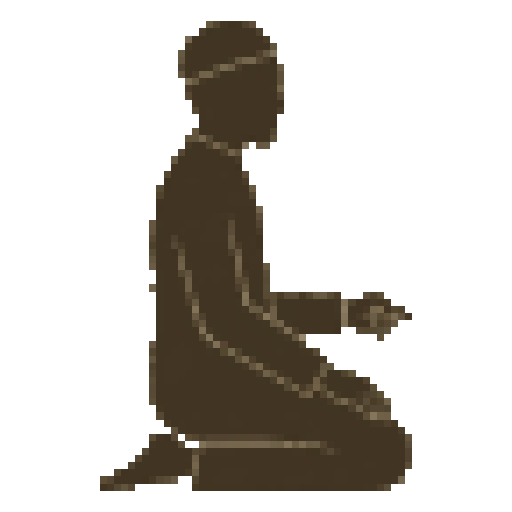
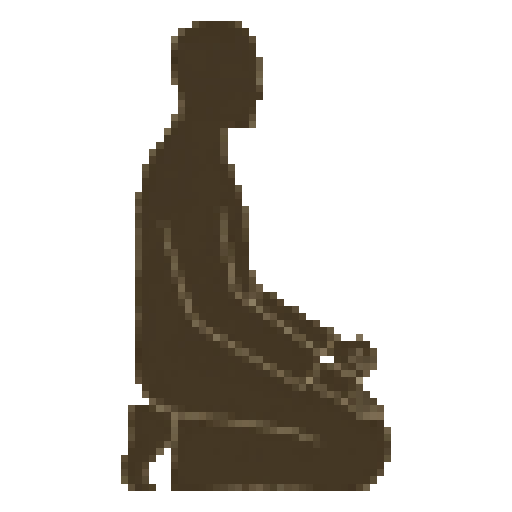
feat(art): le tashahhud a deux dessins, et l'icône est dessinée
La position assise finale existe en deux images : poing fermé, et poing avec
l'index tendu. Le geste de l'index n'appartient pas à toute l'étape — il arrive
sur la shahada — et une seule illustration forçait à trancher partout ce qui ne
se tranche qu'à un moment. Le texte français dit maintenant le geste au lieu de
le supposer.

L'icône n'est plus assemblée en polygones. Trois idées empilées dans un carré
qu'on regarde à 20 mm — étoile sable, socle doré extrudé, silhouette posée
dessus — ne faisaient qu'une tache : elle est remplacée par une étoile khatam
en or, la prosternation dedans, rien d'autre. `make-appicon.py` ne garde que le
prompt qui l'a produite et un `--install` qui force 1024×1024 sans alpha, iOS
refusant une icône transparente. L'étoile est à huit branches — à écrire
« star » tout court, le modèle rend un hexagramme.

Même contrainte de pudeur que partout : aucun trait de visage.

Claude-Session: https://claude.ai/code/session_0131jC1mVapcXB6WxoQg6Qw7

Changed region(s): [[0.1875, 0.0312, 0.8125, 0.9688], [0.4375, 0.9375, 0.5938, 0.9688]]

diff --git a/tools/make-appicon.py b/tools/make-appicon.py
@@ -1,100 +1,76 @@
 #!/usr/bin/env python3
-"""Fabrique l'icône d'app (1024×1024) à partir d'une des illustrations de position.
+"""Imprime le corps JSON de l'icône d'app, pour NanoBanana.
 
-L'icône reprend la DA de l'app : crème, sable, or, encre brune, contour épais et
-face inférieure extrudée (le langage de formes de 5min/Design/Plate.swift). La
-figure est la silhouette de `pos_sujud.png` — la posture la plus reconnaissable
-de la salat, même à 60 pt.
+    python3 tools/make-appicon.py > body.json
+    curl -s --max-time 290 -X POST localhost:4747/generate \
+         -H 'Content-Type: application/json' -d @body.json
+    python3 tools/make-appicon.py --install /tmp/AppIcon.png
 
-    python3 tools/make-appicon.py [--position sujud]
+L'icône était fabriquée ici même, en polygones : étoile khatam sable, socle doré
+extrudé, silhouette de `pos_sujud.png` posée dessus. Elle empilait trois idées
+dans un carré qui se regarde à 20 mm — Sharik l'a remplacée par un dessin, une
+seule forme : l'étoile en or, la prosternation dedans.
 
-Sortie : Salat/Assets.xcassets/AppIcon.appiconset/AppIcon.png
+Le prompt reste ici parce que c'est lui, désormais, la source de l'icône. Deux
+clauses ne sont pas décoratives : la tête sans aucun trait (pudeur, comme pour
+les positions) et l'étoile **à huit branches** — un hexagramme est le symbole du
+judaïsme et n'a rien à faire sur une app de salat, et le modèle y glisse tout
+seul si on écrit juste « star ».
+
+`--install` fait le service après-vente d'un rendu : il efface l'étincelle que
+le générateur tamponne dans un coin (une icône n'a pas de marge à recadrer, il
+faut la repeindre), force 1024×1024 sans alpha — iOS refuse une icône
+transparente — et l'écrit dans l'`AppIcon.appiconset`.
 """
 from __future__ import annotations
 
 import argparse
-import math
+import json
 from pathlib import Path
 
-from PIL import Image, ImageDraw
-
 ROOT = Path(__file__).resolve().parent.parent
-RES = ROOT / "SalatKit" / "Resources"
 OUT = ROOT / "Salat" / "Assets.xcassets" / "AppIcon.appiconset" / "AppIcon.png"
 
+PROMPT = """ONE single square image, 1:1, FULL BLEED: the flat background colour touches all four edges. This is an iOS APP ICON, so: NO rounded corners, NO frame, NO border, NO drop shadow, NO transparency, NO device mockup, NO text, NO letter, NO word, NO number, NO signature, NO watermark, NO sparkle in the corner.
+
+Subject: a single warm gold eight-pointed Islamic khatam star, centred and large, on a plain cream field, with a small brown-ink silhouette of a man prostrating in prayer (sujud, side view, forehead to the ground) resting inside the middle of the star. Only two elements: the gold star, the ink figure.
+
+ART DIRECTION — the app is a calm, printed-book-looking prayer app:
+- Palette, and nothing else: cream #FBF6EC, sand #EFE3CC, warm gold #C1962C, brown ink #2E2A22. No pure black, no white, no saturated colour, no blue, no red, no green, no purple.
+- Flat vector, thick hand-cut ink outlines like a linocut stamp. No gradient, no glow, no bevel, no gloss, no 3D, no photo, no texture, no shading, no hatching.
+- Big simple masses, readable when the icon is 20 mm wide on a phone home screen. Two or three shapes maximum. Generous empty margin all around, nothing touching the edges.
+- If a human figure appears, THE HEAD IS COMPLETELY BLANK — no eyes, no nose, no mouth, no ear, no hair, no face contour, one uninterrupted mass of ink. Non-negotiable, religious modesty.
+- Any star must be an EIGHT-POINTED ISLAMIC KHATAM star (two overlaid squares). NEVER a six-pointed star, never a hexagram, never a Star of David, never a crescent-and-star flag emblem.
+"""
+
 SIZE = 1024
-CREAM = (251, 246, 236, 255)
-SAND = (239, 227, 204, 255)
-GOLD = (193, 150, 44, 255)
-GOLD_DEEP = (154, 118, 30, 255)
-INK = (46, 42, 34, 255)
-
-# Rendu 4× puis réduit : les diagonales du khatam et le contour du socle sont
-# tracés en polygones, ils crénellent sans supersampling.
-SS = 4
 
 
-def khatam(cx: float, cy: float, r: float) -> list[tuple[float, float]]:
-    """Étoile à huit branches — le motif du fond, pas un hexagramme."""
-    inner = r * 0.62
-    pts = []
-    for i in range(16):
-        a = math.pi / 8 * i - math.pi / 2
-        rad = r if i % 2 == 0 else inner
-        pts.append((cx + rad * math.cos(a), cy + rad * math.sin(a)))
-    return pts
+def install(path: Path) -> None:
+    from PIL import Image
 
-
-def silhouette(name: str, height: int) -> Image.Image:
-    """Charge une illustration et l'aplatit en encre brune, pixels conservés."""
-    src = Image.open(RES / f"pos_{name}.png").convert("RGBA")
-    src = src.crop(src.getbbox())
-    w = round(src.width * height / src.height)
-    src = src.resize((w, height), Image.NEAREST)  # NEAREST : la pixellisation est voulue
-    flat = Image.new("RGBA", src.size, INK)
-    flat.putalpha(src.getchannel("A"))
-    return flat
-
-
-def build(position: str) -> Image.Image:
-    s = SIZE * SS
-    img = Image.new("RGBA", (s, s), CREAM)
-    d = ImageDraw.Draw(img)
-
-    # Le motif du fond : une grande étoile sable, plus deux petites en écho.
-    # Les petites restent à 17 % du bord : plus près, le masque arrondi d'iOS
-    # les rogne.
-    d.polygon(khatam(s * 0.5, s * 0.42, s * 0.36), fill=SAND)
-    for cx, cy, r in ((0.17, 0.17, 0.07), (0.83, 0.17, 0.07)):
-        d.polygon(khatam(s * cx, s * cy, s * r), fill=SAND)
-
-    # Le socle : plaque dorée, contour d'encre, face inférieure extrudée.
-    # La face du dessous se trace en premier ; la plaque du dessus recouvre
-    # ensuite son arête haute, sinon un trait d'encre barre l'or.
-    stroke = round(s * 0.011)
-    x0, x1 = s * 0.11, s * 0.89
-    top, bot = s * 0.735, s * 0.825
-    depth = s * 0.032
-    rad = s * 0.028
-    d.rounded_rectangle(
-        [x0, top + depth, x1, bot + depth], rad, fill=GOLD_DEEP, outline=INK, width=stroke
-    )
-    d.rounded_rectangle([x0, top, x1, bot], rad, fill=GOLD, outline=INK, width=stroke)
-
-    # La figure, posée sur le socle (elle mord légèrement dessus).
-    fig = silhouette(position, round(s * 0.30))
-    img.alpha_composite(fig, (round(s * 0.5 - fig.width / 2), round(top - fig.height + stroke)))
-
-    return img.resize((SIZE, SIZE), Image.LANCZOS).convert("RGB")
+    im = Image.open(path).convert("RGB")
+    bg = im.getpixel((4, 4))
+    w, h = im.size
+    px = im.load()
+    for y in range(int(h * 0.78), h):
+        for x in range(int(w * 0.78), w):
+            r, g, b = px[x, y]
+            if abs(r - bg[0]) + abs(g - bg[1]) + abs(b - bg[2]) < 90:
+                px[x, y] = bg
+    OUT.parent.mkdir(parents=True, exist_ok=True)
+    im.resize((SIZE, SIZE), Image.LANCZOS).save(OUT)
+    print(OUT)
 
 
 def main() -> None:
     ap = argparse.ArgumentParser()
-    ap.add_argument("--position", default="sujud")
+    ap.add_argument("--install", type=Path, help="rendu NanoBanana à poser comme icône")
     args = ap.parse_args()
-    OUT.parent.mkdir(parents=True, exist_ok=True)
-    build(args.position).save(OUT)
-    print(OUT)
+    if args.install:
+        install(args.install)
+    else:
+        print(json.dumps({"prompt": PROMPT, "output": "/tmp/AppIcon.png"}))
 
 
 if __name__ == "__main__":

diff --git a/tools/generate-positions.py b/tools/generate-positions.py
@@ -28,7 +28,8 @@ SUBJECTS = {
  "pos_ruku": "a young man in the bowing position of Muslim prayer (ruku), strict side view profile facing left. His torso is bent exactly 90 degrees so his BACK IS PERFECTLY FLAT AND HORIZONTAL, like a table top. His LEGS ARE COMPLETELY STRAIGHT AND VERTICAL, hips directly above the heels. His arms hang straight DOWN from the shoulders and his HANDS GRIP HIS KNEES — the hands are at knee height, not near the feet, not near the ground. His head is level with his flat back, looking down. He is NOT touching his toes and NOT curled over.",
  "pos_sujud": "a young man prostrating in prayer, seen from the side in profile, forehead and nose touching the ground, both palms flat on the ground beside his head, knees on the ground, hips raised, toes tucked under.",
  "pos_jalsa": "a young man sitting in prayer, seen from the side in profile, sitting on his folded left leg with the right foot upright on its toes, back straight, both hands resting flat on his thighs.",
- "pos_tashahhud": "a young man sitting in the tashahhud position of Muslim prayer, strict side view profile facing right. He sits on his folded left leg with the right foot upright on its toes, back straight. CRITICAL — THE ARMS AND HANDS: both forearms lie FLAT ALONG THE THIGHS, following the exact line of the thigh from hip to knee, and BOTH HANDS ARE PLACED ON TOP OF THE KNEES, TOUCHING THE KNEES, resting their whole weight on them. The right hand is a closed fist SITTING ON THE KNEECAP with only the index finger extended, and that finger tips slightly UPWARD from the fist while the fist itself STAYS IN CONTACT WITH THE KNEE. The silhouette of the arm must merge with the silhouette of the thigh — there is NO gap of background between forearm and thigh. The hand does NOT float, does NOT hover, does NOT reach out in front of the knee, does NOT extend past the knee into empty space, is NOT lifted, NOT horizontal in the air, NOT at chest height. The elbow stays against the side of the body. The left hand rests flat on the left knee the same way.",
+ "pos_tashahhud": "a young man sitting in the tashahhud position of Muslim prayer, strict side view profile facing right. He sits on his folded left leg with the right foot upright on its toes, back straight. CRITICAL — THE ARMS AND HANDS: both forearms lie FLAT ALONG THE THIGHS, following the exact line of the thigh from hip to knee, and BOTH HANDS ARE PLACED ON TOP OF THE KNEES, TOUCHING THE KNEES, resting their whole weight on them. The right hand is a CLOSED FIST resting on the kneecap, ALL FIVE FINGERS CURLED IN — no finger sticks out, nothing points anywhere. The left hand rests flat on the left knee. The silhouette of the arm must merge with the silhouette of the thigh — there is NO gap of background between forearm and thigh. The hand does NOT float, does NOT hover, does NOT reach out in front of the knee, does NOT extend past the knee into empty space, is NOT lifted, NOT horizontal in the air, NOT at chest height. The elbow stays against the side of the body.",
+ "pos_tashahhud_index": "a young man sitting in the tashahhud position of Muslim prayer, strict side view profile facing right. He sits on his folded left leg with the right foot upright on its toes, back straight. CRITICAL — THE ARMS AND HANDS: both forearms lie FLAT ALONG THE THIGHS, following the exact line of the thigh from hip to knee, and BOTH HANDS ARE PLACED ON TOP OF THE KNEES, TOUCHING THE KNEES, resting their whole weight on them. The right hand is a closed fist SITTING ON THE KNEECAP with only the index finger extended, and that finger tips slightly UPWARD from the fist while the fist itself STAYS IN CONTACT WITH THE KNEE. The left hand rests flat on the left knee the same way. The silhouette of the arm must merge with the silhouette of the thigh — there is NO gap of background between forearm and thigh. The hand does NOT float, does NOT hover, does NOT reach out in front of the knee, does NOT extend past the knee into empty space, is NOT lifted, NOT horizontal in the air, NOT at chest height. The elbow stays against the side of the body.",
  "pos_salam": "a young man kneeling in prayer, seen from the FRONT: both shoulders and the chest face the viewer squarely, he sits back on his folded legs, both hands flat on his thighs. ONLY HIS HEAD is turned to his right, shown in side profile — the closing greeting. Absolutely NO circle, NO disc, NO oval, NO halo, NO vignette, NO coloured shape behind him: the background is one single flat colour edge to edge.",
 }
 if __name__ == "__main__":
